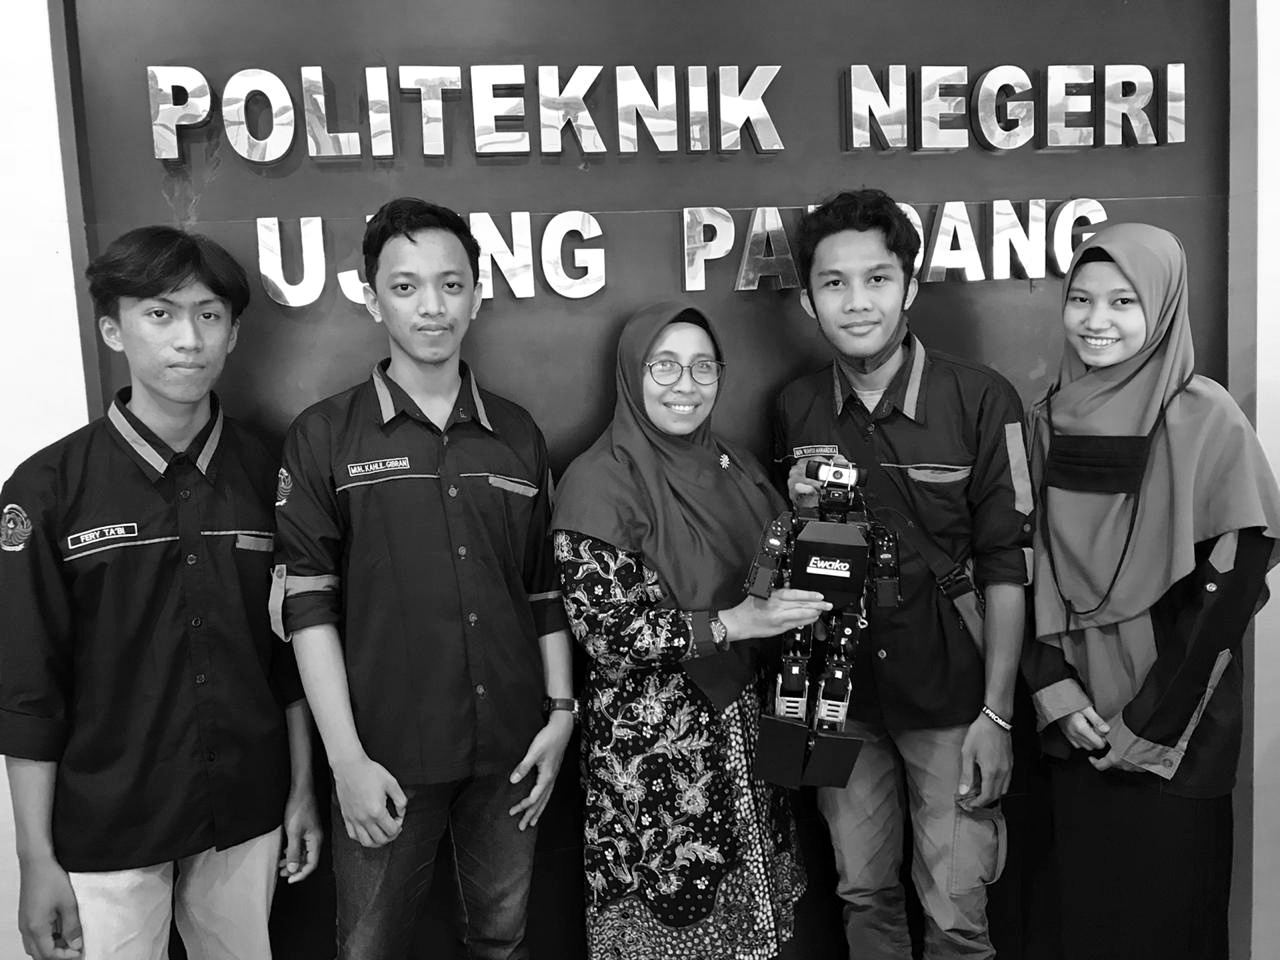
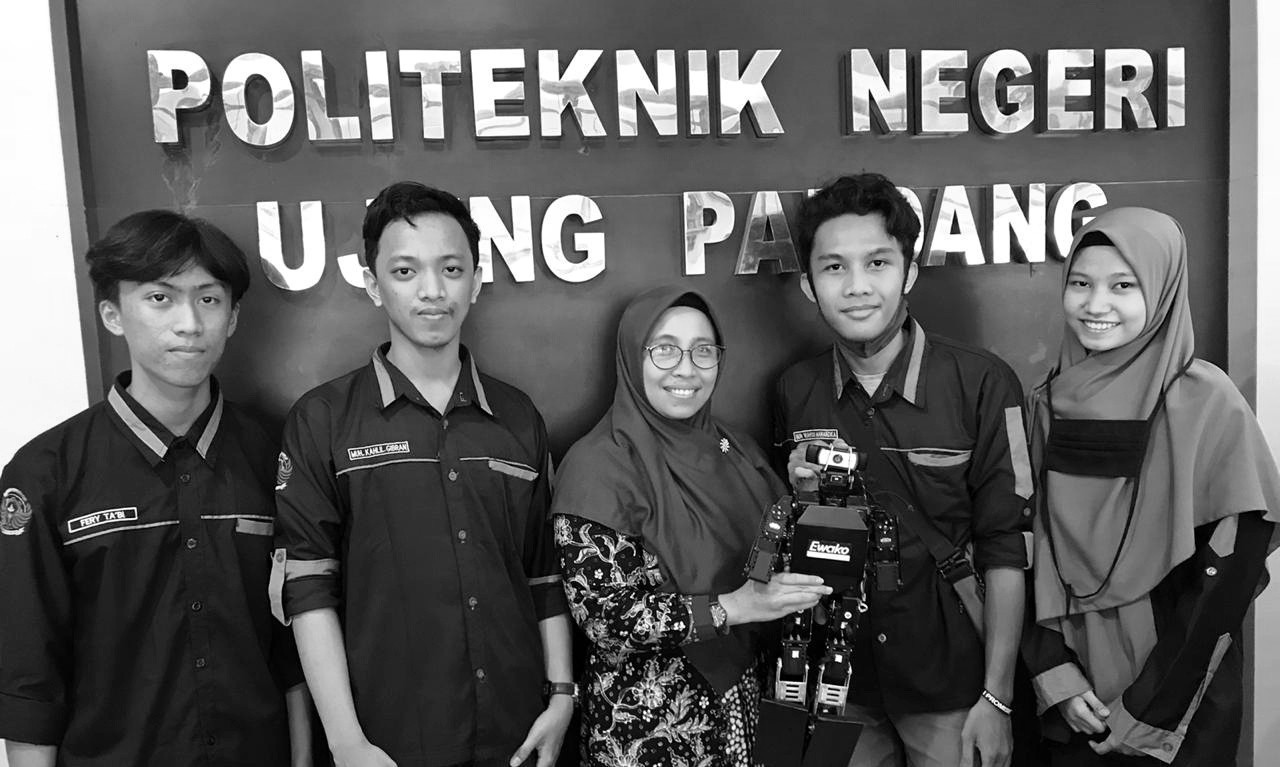
Updated about

diff --git a/_tabs/about.md b/_tabs/about.md
@@ -3,6 +3,9 @@
 icon: fas fa-info-circle
 order: 4
 ---
+![ewako-team](/assets/img_ewk_team.jpeg)
+_Ewako 2020_
+
 I'm a Robotics Enthusiast. My works are mainly about embedded systems and robots. I have a bit obsession in writing code especially in robotics and embedded software. My primary programming language is *C++* but I also know *Python*. This site consist of my past and on-going personal projects. Hope it's usefull for anyone reading.
 
 # Education
